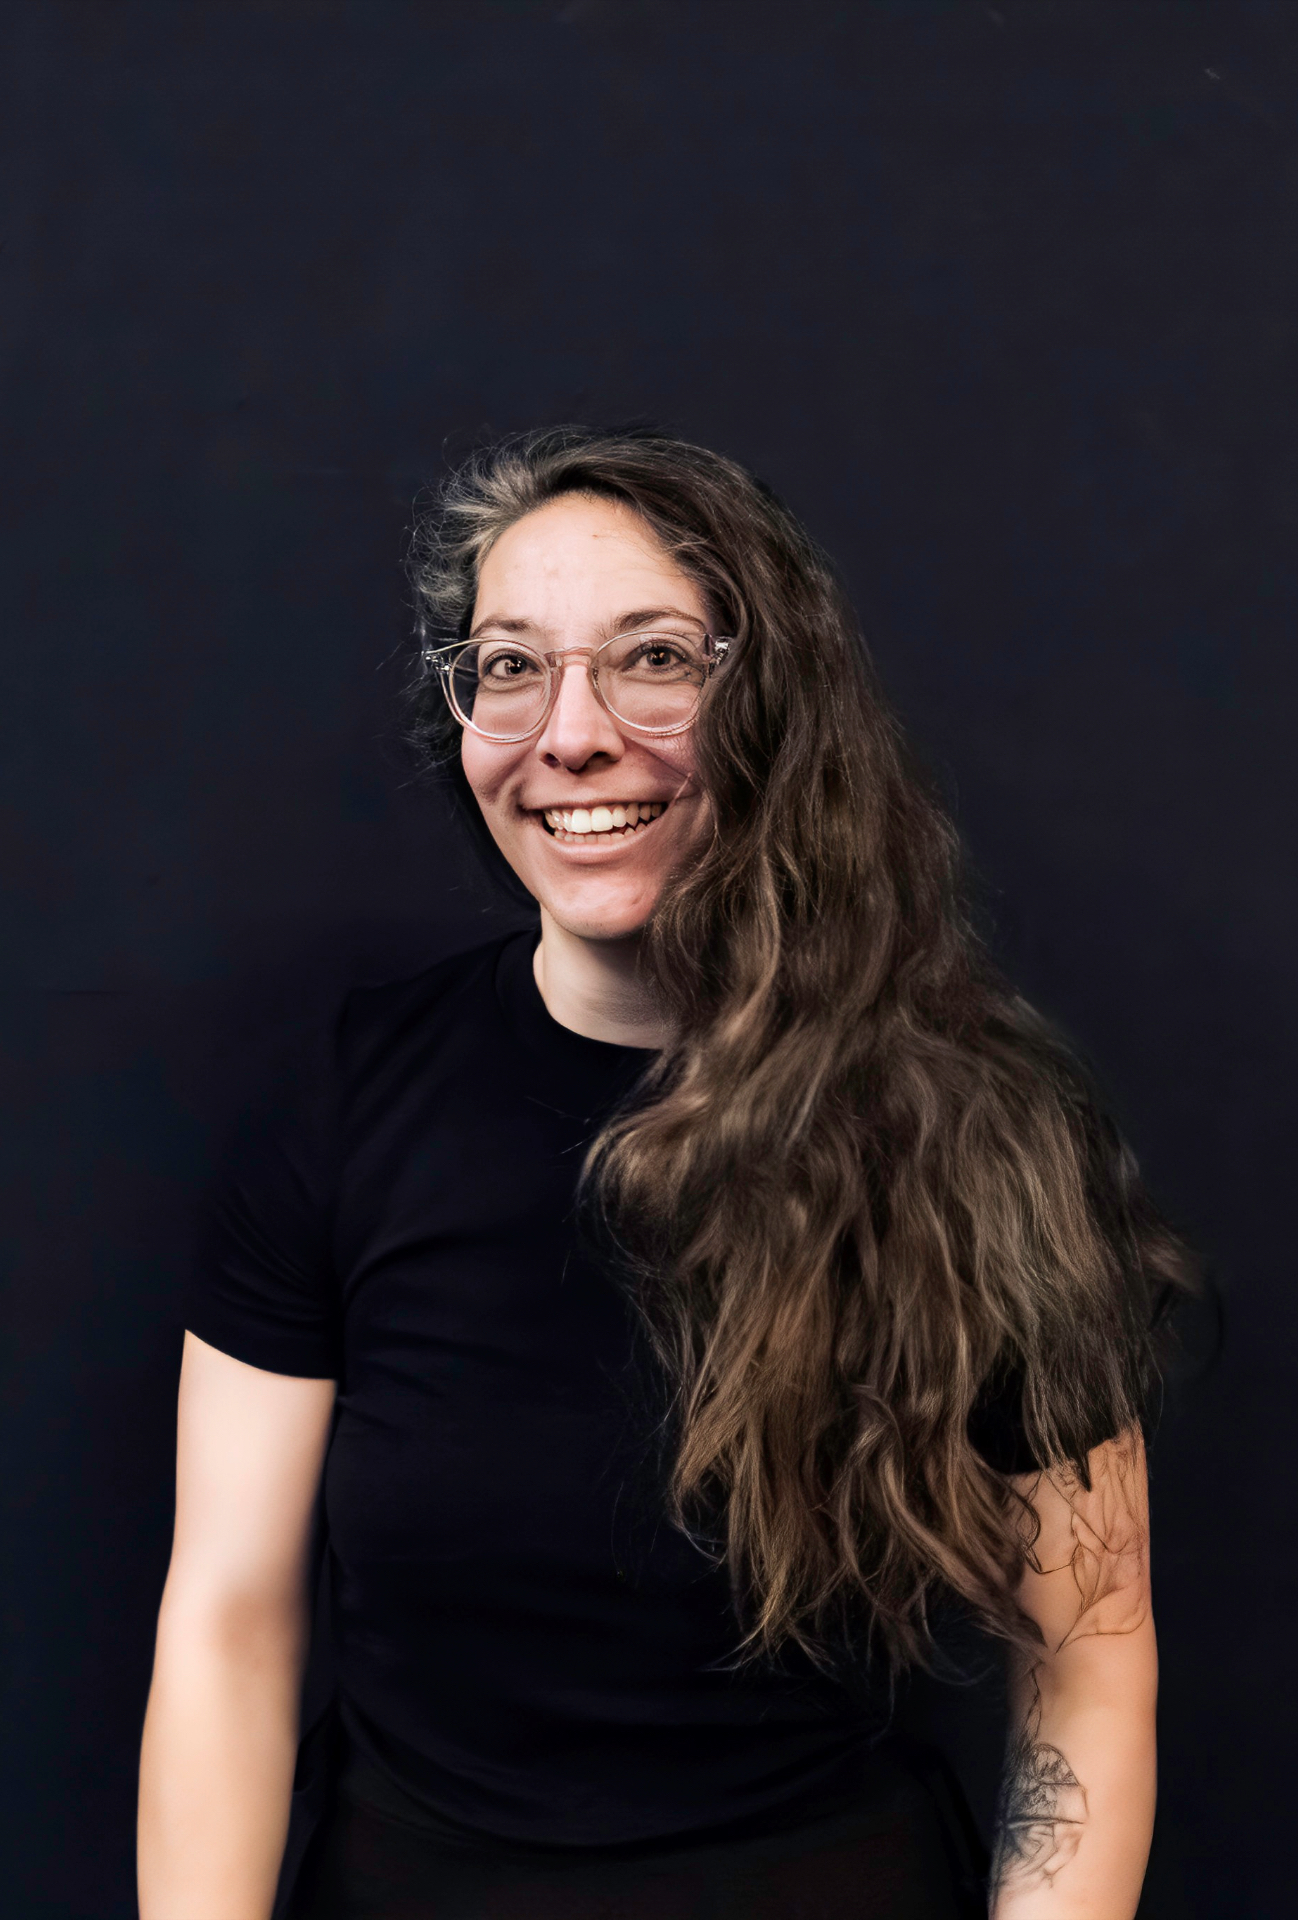
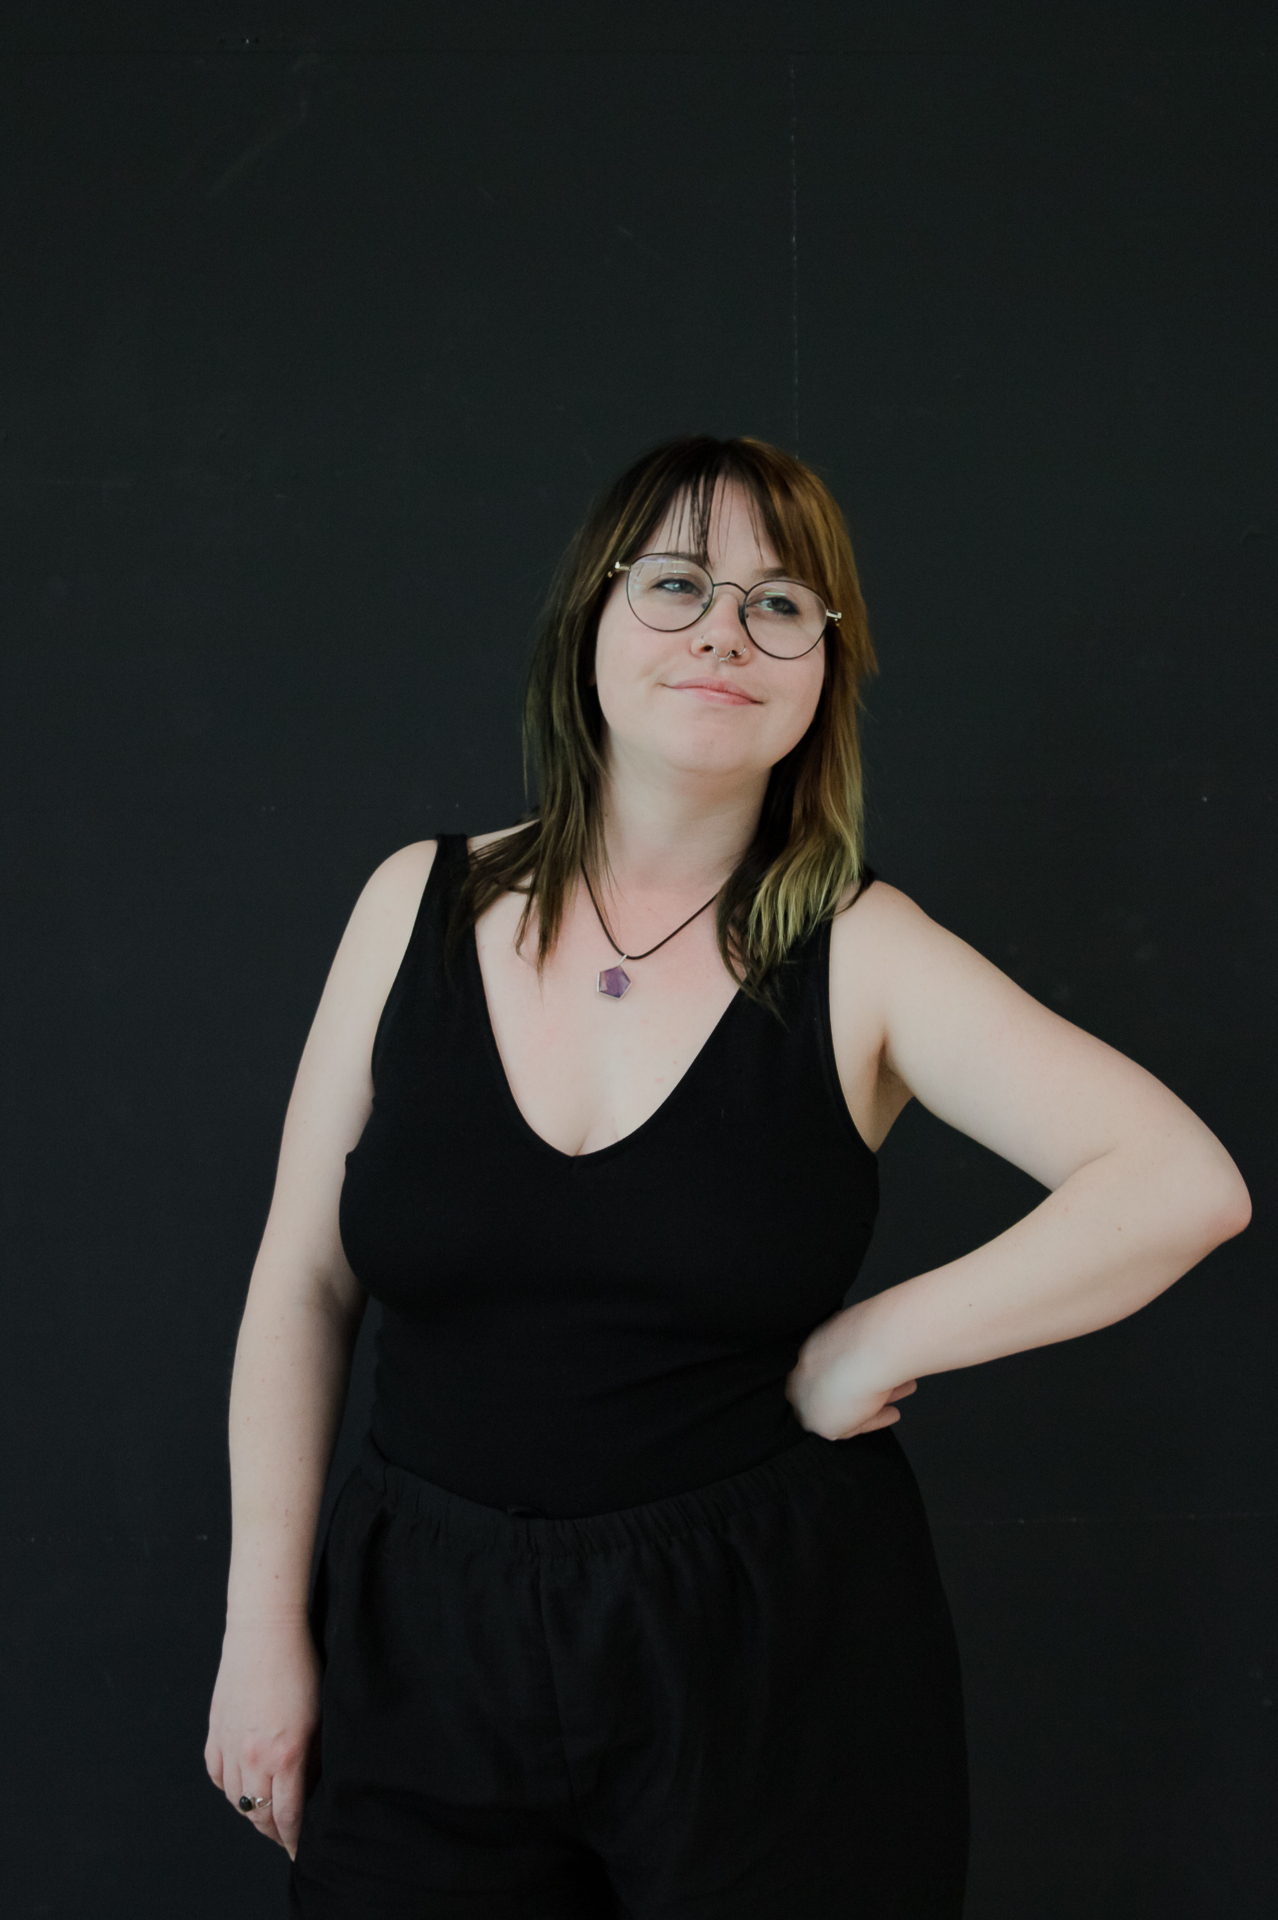
update member images and details in about page, remove outdated entries and add new member

Changed region(s): [[0.0915, 0.2188, 0.9765, 1.0]]

diff --git a/about.html b/about.html
@@ -99,11 +99,6 @@
 
 			<div id="membresGallery">
 				<div class="vignette membre">
-					<img src="images/membres/joel.jpg" />
-					<div class="nom vignette">Joel Matias</div>
-				</div>
-
-				<div class="vignette membre">
 					<img src="images/membres/elio.jpg" />
 					<div class="nom vignette">Elio Luisier</div>
 				</div>
@@ -134,7 +129,7 @@
 				</div>
 
 				<div class="vignette membre">
-					<img src="images/membres/TBD.png" />
+					<img src="images/membres/yohan.jpg" />
 					<div class="nom vignette">Yohan Stauffer</div>
 				</div>
 
@@ -159,23 +154,8 @@
 				</div>
 
 				<div class="vignette membre">
-					<img src="images/membres/TBD.png" />
-					<div class="nom vignette">Léa Locher</div>
-				</div>
-
-				<div class="vignette membre">
-					<img src="images/membres/noe.jpg" />
-					<div class="nom vignette">Noé Gaillard</div>
-				</div>
-
-				<div class="vignette membre">
 					<img src="images/membres/laura.jpg" />
-					<div class="nom vignette">Laura Vouillamoz</div>
-				</div>
-
-				<div class="vignette membre">
-					<img src="images/membres/martine.jpg" />
-					<div class="nom vignette">Martine Decré</div>
+					<div class="nom vignette">Laura Baud</div>
 				</div>
 			</div>
 		</main>